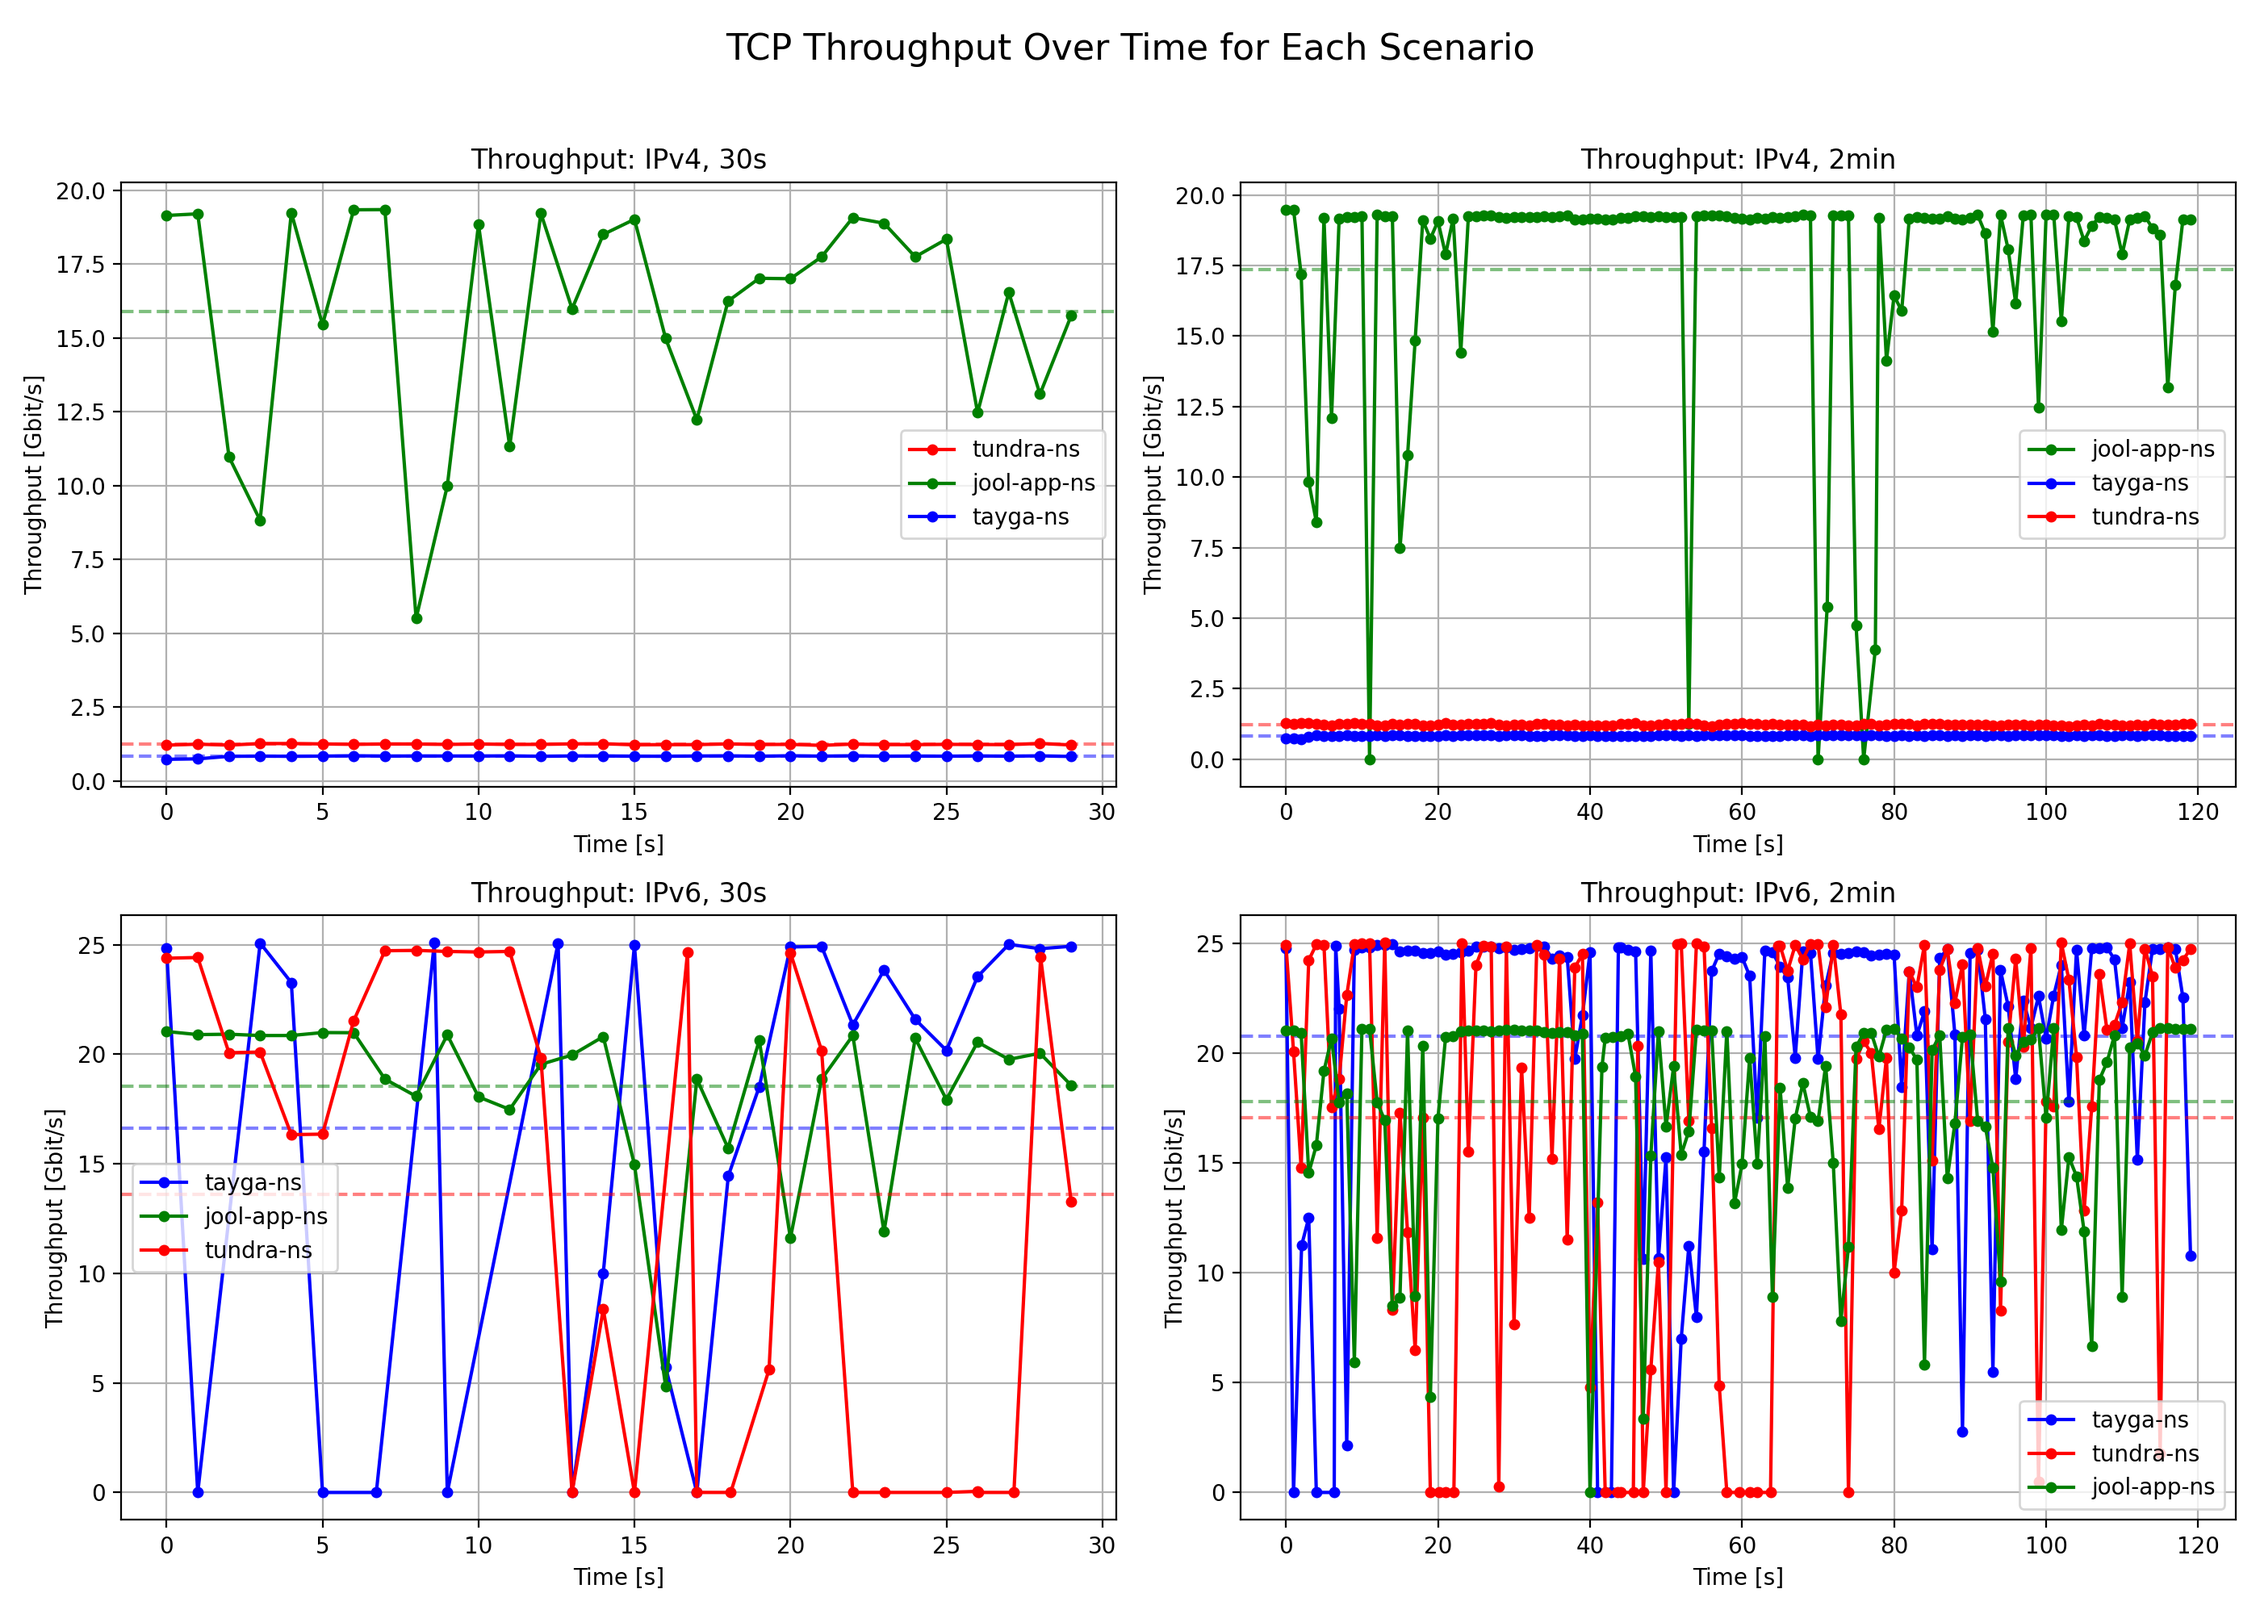
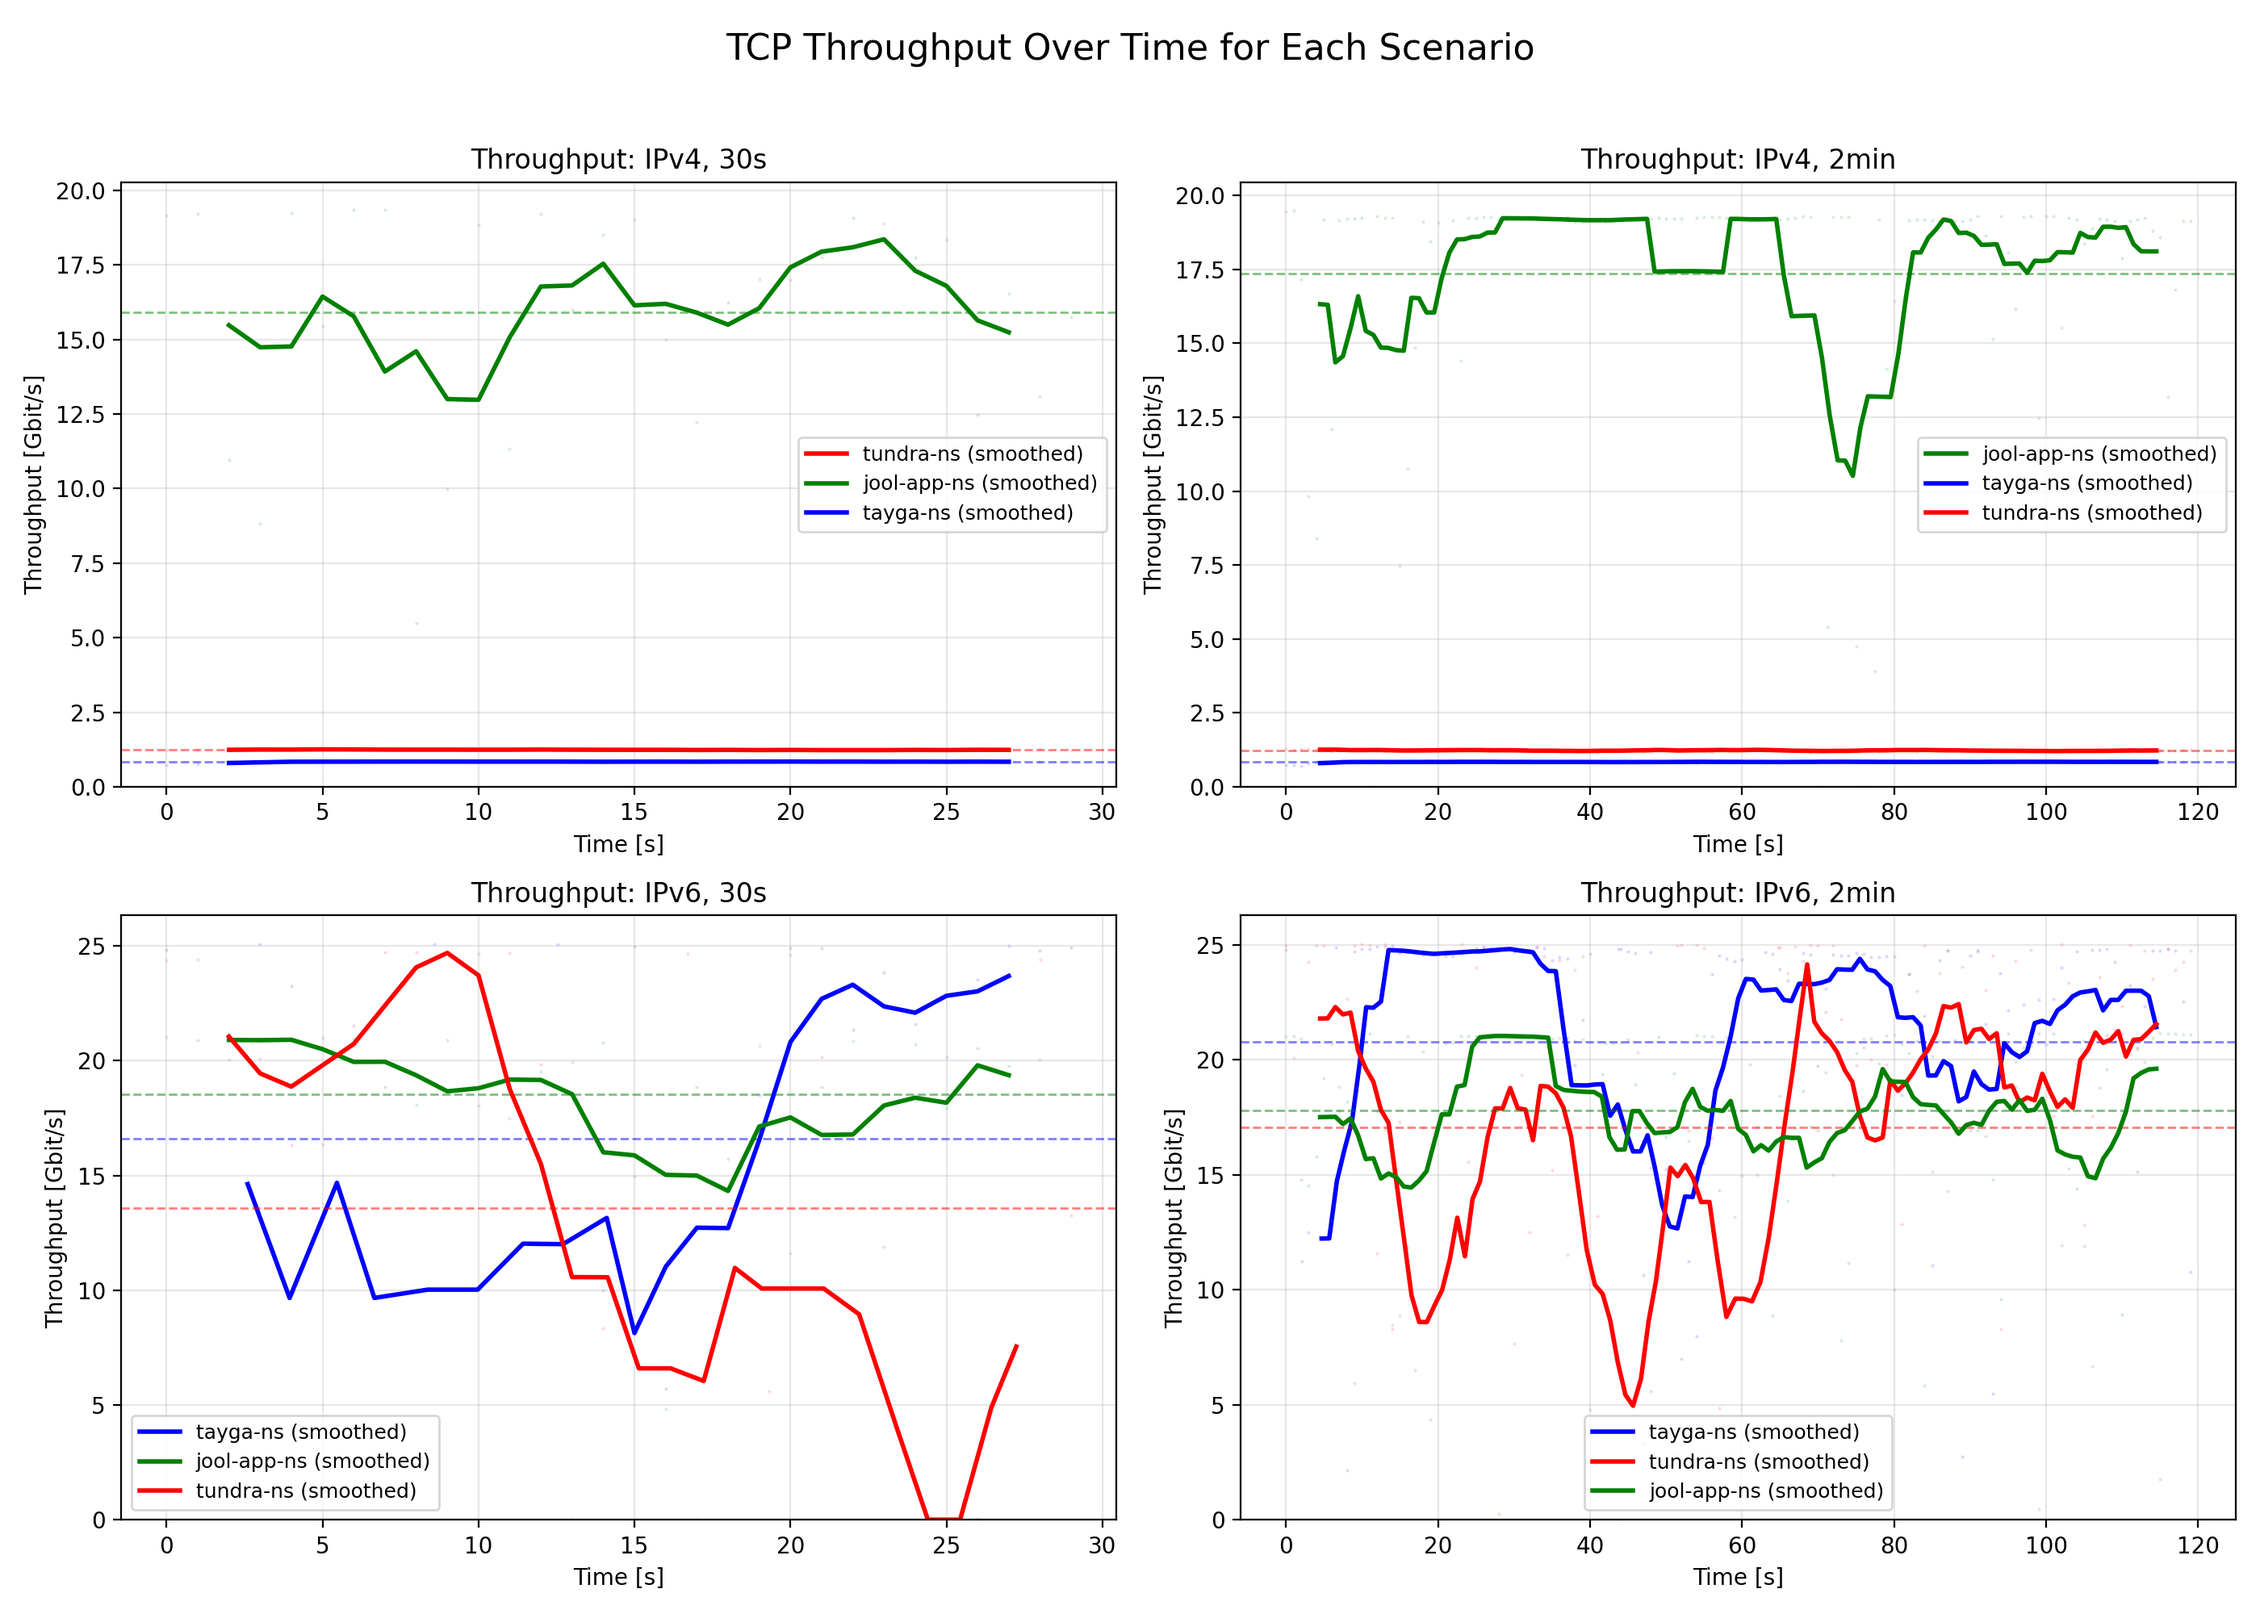
adjusted tcp script

diff --git a/plot_udp_measurements.py b/plot_udp_measurements.py
@@ -1,0 +1,140 @@
+import os
+import json
+import matplotlib.pyplot as plt
+from collections import defaultdict
+
+# Settings
+FOLDER = "UDP_1/Messungen"
+IMG_DIR = "img"
+os.makedirs(IMG_DIR, exist_ok=True)
+namespace_colors = {
+    "tundra-ns": "red",
+    "jool-app-ns": "green",
+    "tayga-ns": "blue",
+}
+
+FILES = [f for f in os.listdir(FOLDER) if f.endswith(".json")]
+by_scenario = defaultdict(dict)  # (ip_type, time_label) -> {namespace: (times, throughput, overall_loss_pct, overall_jitter)}
+
+for jsonfile in FILES:
+    filename = os.path.join(FOLDER, jsonfile)
+    try:
+        namepart = os.path.splitext(jsonfile)[0]
+        parts = namepart.split("_")
+        namespace = parts[0]
+        time_label = parts[-1]
+        ip = "_".join(parts[1:-1])
+    except Exception as e:
+        print(f"Filename {jsonfile} could not be parsed: {e}, skipping.")
+        continue
+
+    ip_type = "IPv6" if ":" in ip.replace("_", ":") or "__" in ip else "IPv4"
+
+    try:
+        with open(filename, "r") as f:
+            data = json.load(f)
+    except Exception as e:
+        print(f"Failed to load {filename}: {e}")
+        continue
+
+    times, throughput = [], []
+
+    for interval in data.get("intervals", []):
+        s = interval.get("sum", {})
+        times.append(s.get("start", float('nan')))
+        throughput.append(s.get("bits_per_second", 0) / 1e9)  # Gbit/s
+
+    # Overall metrics
+    overall_loss_pct = data.get("end", {}).get("sum", {}).get("lost_percent", None)
+    overall_jitter = data.get("end", {}).get("sum", {}).get("jitter_ms", None)
+
+    key = (ip_type, time_label)
+    by_scenario[key][namespace] = (times, throughput, overall_loss_pct, overall_jitter)
+
+ip_types = ["IPv4", "IPv6"]
+time_labels = ["30s", "2min"]
+
+# ---- Throughput plot ----
+fig_thr, axs_thr = plt.subplots(2, 2, figsize=(14, 10))
+axs_thr = axs_thr.flatten()
+for i, ip_type in enumerate(ip_types):
+    for j, time_label in enumerate(time_labels):
+        idx = i*2 + j
+        ax = axs_thr[idx]
+        key = (ip_type, time_label)
+        this_case = by_scenario.get(key, {})
+        if not this_case:
+            ax.set_title(f"No data: {ip_type}, {time_label}")
+            continue
+        for ns, (times, throughputs, overall_loss, overall_jitter) in this_case.items():
+            color = namespace_colors.get(ns, None)
+            ax.plot(times, throughputs, marker='o', markersize=4, label=ns, color=color)
+            mean_thr = sum(throughputs) / len(throughputs) if throughputs else 0
+            ax.axhline(mean_thr, color=color, linestyle='--', alpha=0.5)
+            # Annotate overall loss%
+            if overall_loss is not None and overall_loss > 0:
+                ax.text(times[len(times)//2], mean_thr, f"{overall_loss:.3f}% loss", color=color, fontsize=8)
+            # Annotate overall jitter
+            if overall_jitter is not None and overall_jitter > 0:
+                ax.text(times[len(times)//2], mean_thr*0.95, f"Jitter: {overall_jitter:.3f}ms", color=color, fontsize=8)
+        ax.set_title(f"Throughput: {ip_type}, {time_label}")
+        ax.set_xlabel("Time [s]")
+        ax.set_ylabel("Throughput [Gbit/s]")
+        ax.grid(True)
+        ax.legend()
+fig_thr.suptitle("UDP Throughput Over Time for Each Scenario", fontsize=16)
+plt.tight_layout(rect=[0, 0, 1, 0.96])
+plt.savefig(os.path.join(IMG_DIR, "udp_throughput_over_time.png"), dpi=200)
+plt.show()
+
+# ---- Loss% plot (overall line only) ----
+fig_loss, axs_loss = plt.subplots(2, 2, figsize=(14, 10))
+axs_loss = axs_loss.flatten()
+for i, ip_type in enumerate(ip_types):
+    for j, time_label in enumerate(time_labels):
+        idx = i*2 + j
+        ax = axs_loss[idx]
+        key = (ip_type, time_label)
+        this_case = by_scenario.get(key, {})
+        if not this_case:
+            ax.set_title(f"No data: {ip_type}, {time_label}")
+            continue
+        for ns, (times, throughputs, overall_loss, _) in this_case.items():
+            color = namespace_colors.get(ns, None)
+            loss_line = [overall_loss]*len(times)
+            ax.plot(times, loss_line, label=ns, color=color)
+        ax.set_title(f"Loss %: {ip_type}, {time_label}")
+        ax.set_xlabel("Time [s]")
+        ax.set_ylabel("Loss [%]")
+        ax.grid(True)
+        ax.legend()
+fig_loss.suptitle("UDP Packet Loss (%) for Each Scenario (overall only)", fontsize=16)
+plt.tight_layout(rect=[0, 0, 1, 0.96])
+plt.savefig(os.path.join(IMG_DIR, "udp_loss_pct_over_time.png"), dpi=200)
+plt.show()
+
+# ---- Jitter plot (overall line only) ----
+fig_jit, axs_jit = plt.subplots(2, 2, figsize=(14, 10))
+axs_jit = axs_jit.flatten()
+for i, ip_type in enumerate(ip_types):
+    for j, time_label in enumerate(time_labels):
+        idx = i*2 + j
+        ax = axs_jit[idx]
+        key = (ip_type, time_label)
+        this_case = by_scenario.get(key, {})
+        if not this_case:
+            ax.set_title(f"No data: {ip_type}, {time_label}")
+            continue
+        for ns, (times, throughputs, _, overall_jitter) in this_case.items():
+            color = namespace_colors.get(ns, None)
+            jitter_line = [overall_jitter]*len(times)
+            ax.plot(times, jitter_line, label=ns, color=color)
+        ax.set_title(f"Jitter: {ip_type}, {time_label}")
+        ax.set_xlabel("Time [s]")
+        ax.set_ylabel("Jitter [ms]")
+        ax.grid(True)
+        ax.legend()
+fig_jit.suptitle("UDP Jitter for Each Scenario (overall only)", fontsize=16)
+plt.tight_layout(rect=[0, 0, 1, 0.96])
+plt.savefig(os.path.join(IMG_DIR, "udp_jitter_over_time.png"), dpi=200)
+plt.show()

diff --git a/plot_tcp_measurements.py b/plot_tcp_measurements.py
@@ -2,6 +2,7 @@ import os
 import json
 import matplotlib.pyplot as plt
 from collections import defaultdict
+import numpy as np
 
 FOLDER = "TCP_1/Messungen"
 IMG_DIR = "img"  # Directory to save plot images
@@ -56,6 +57,10 @@ ip_types = ["IPv4", "IPv6"]
 time_labels = ["30s", "2min"]
 
 # ---- Throughput Plot ----
+def moving_average(x, w=5):
+    """Compute moving average using window w."""
+    return np.convolve(x, np.ones(w)/w, mode='valid')
+
 fig_thr, axs_thr = plt.subplots(2, 2, figsize=(14, 10))
 axs_thr = axs_thr.flatten()
 
@@ -70,15 +75,38 @@ for i, ip_type in enumerate(ip_types):
             continue
         for ns, (times, throughputs, _) in this_case.items():
             color = namespace_colors.get(ns, None)
-            ax.plot(times, throughputs, marker='o', markersize=4, label=ns, color=color)
+            if not times or not throughputs:
+                continue
+
+            # Choose smoothing window for time label
+            w = 10 if time_label == "2min" else 5
+            w = min(w, len(throughputs))  # Ensure window isn't too big
+
+            # ---- Plot smoothed line ----
+            if len(throughputs) >= w and w > 1:
+                sm_through = moving_average(throughputs, w)
+                sm_times = moving_average(times, w)
+                ax.plot(sm_times, sm_through, label=f"{ns} (smoothed)", color=color, linewidth=2)
+
+                # Plot raw, but very faint and only as points (or line):
+                ax.plot(times, throughputs, '.', alpha=0.15, color=color, markersize=1, zorder=1)
+            else:
+                # For very short series: plot only as-is
+                ax.plot(times, throughputs, '-', marker='o', label=ns, color=color, markersize=3, linewidth=1)
+            
+            # Mean line across full data (for reference)
             if throughputs:
                 mean_thr = sum(throughputs) / len(throughputs)
-                ax.axhline(mean_thr, color=color, linestyle='--', alpha=0.5)
+                ax.axhline(mean_thr, color=color, linestyle='--', alpha=0.5, linewidth=1)
+
         ax.set_title(f"Throughput: {ip_type}, {time_label}")
         ax.set_xlabel("Time [s]")
         ax.set_ylabel("Throughput [Gbit/s]")
-        ax.grid(True)
-        ax.legend()
+        ax.grid(True, alpha=0.3)
+        ax.legend(fontsize=9)
+        # Optionally: set lower y limit to zero for clarity
+        ax.set_ylim(bottom=0)
+
 fig_thr.suptitle("TCP Throughput Over Time for Each Scenario", fontsize=16)
 plt.tight_layout(rect=[0, 0, 1, 0.96])
 
@@ -87,6 +115,7 @@ throughput_plot_path = os.path.join(IMG_DIR, "tcp_throughput_over_time.png")
 plt.savefig(throughput_plot_path, dpi=200)
 print(f"Throughput plot saved to {throughput_plot_path}")
 plt.show()
+
 
 # ---- RTT Plot ----
 fig_rtt, axs_rtt = plt.subplots(2, 2, figsize=(14, 10))
@@ -117,6 +146,6 @@ plt.tight_layout(rect=[0, 0, 1, 0.96])
 
 # ---- SAVE RTT PLOT ----
 rtt_plot_path = os.path.join(IMG_DIR, "tcp_rtt_over_time.png")
-plt.savefig(rtt_plot_path, dpi=200)
+#plt.savefig(rtt_plot_path, dpi=200)
 print(f"RTT plot saved to {rtt_plot_path}")
 plt.show()
